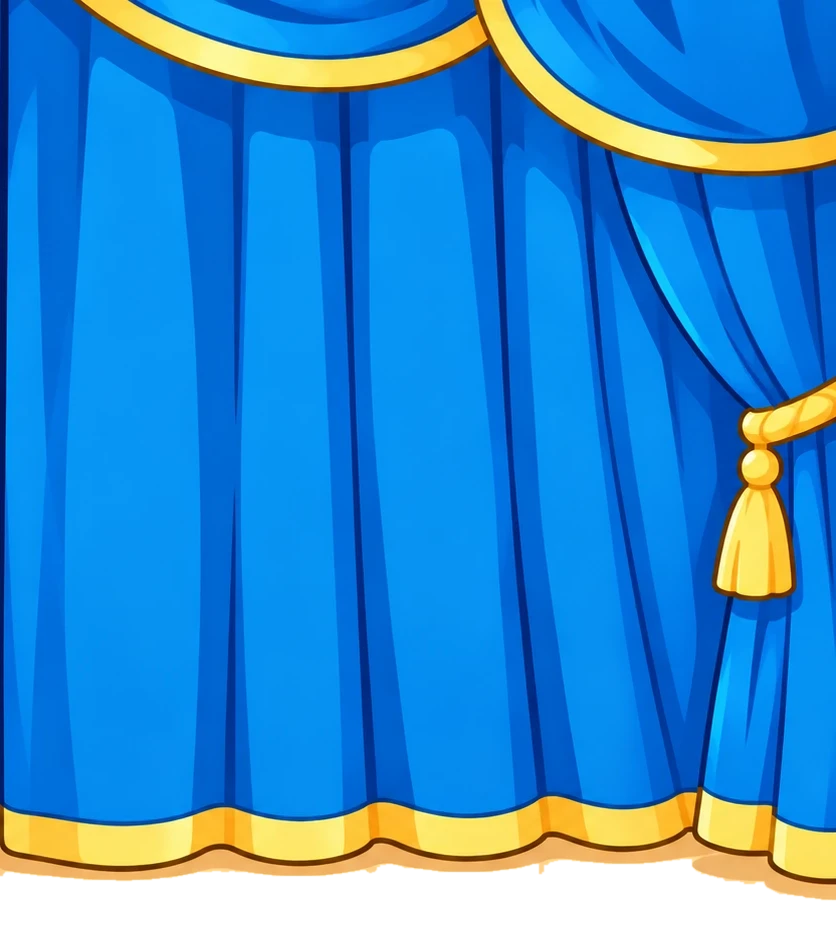
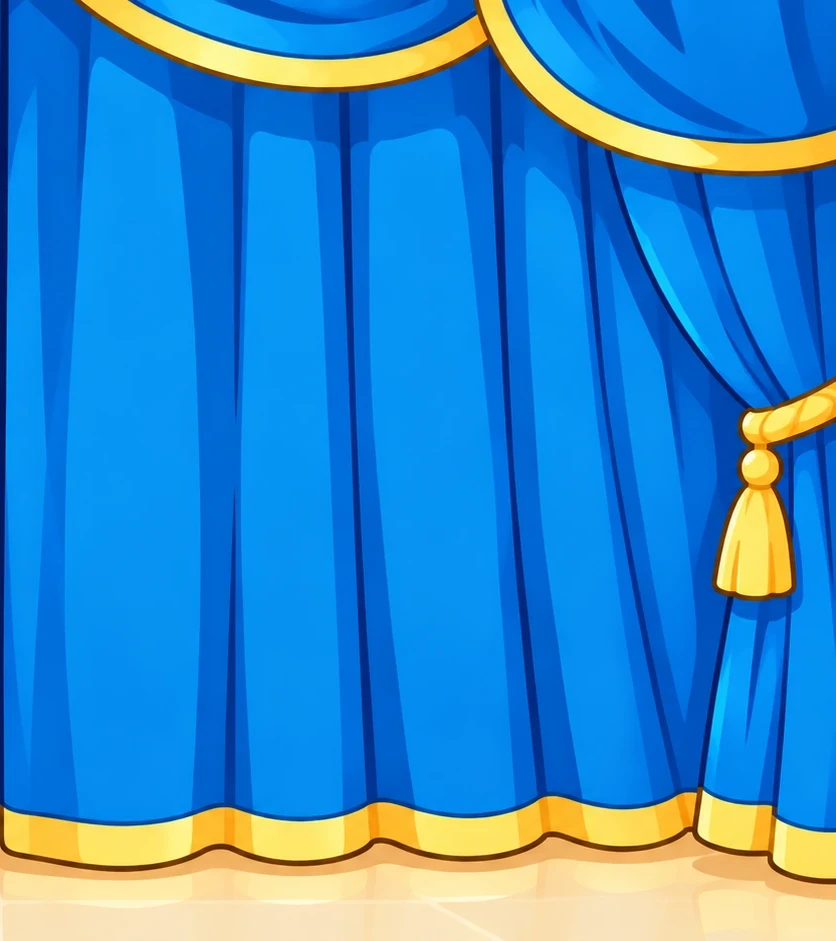
Mở rèm: rèm phủ kín toàn màn hình như ảnh gốc (có diềm vàng trên, gấu vàng và sàn kem dưới)
Claude-Session: https://claude.ai/code/session_01Xqfit1TE88fdJNq9wU4RBg

Changed region(s): [[0.0, 0.8937, 1.0, 1.0]]

diff --git a/frontend/src/index.css b/frontend/src/index.css
@@ -1613,12 +1613,15 @@ h3,
 /* ===== Mở rèm vào Hội trường triển lãm (ExhibitTransition): hai cánh rèm xanh viền vàng trượt sang hai bên ===== */
 .sb-curtain-root { position: fixed; inset: 0; z-index: 9999; overflow: hidden; pointer-events: auto; opacity: 1; transition: opacity 300ms ease-in-out; }
 .sb-curtain-root.sb-curtain-leave { opacity: 0; pointer-events: none; }
-/* Khung rèm phủ kín màn hình (như background-size: cover); hai cánh mỗi cánh rộng một nửa khung. */
-.sb-curtain { position: absolute; top: calc((100vh - max(100vh, 56.3vw)) / 2); height: max(100vh, 56.3vw); width: max(50vw, 88.9vh); }
-.sb-curtain img { display: block; width: 100%; height: 100%; user-select: none; pointer-events: none; }
+/* Rèm phủ KÍN màn hình (có cả diềm vàng trên, gấu vàng dưới và sàn kem như ảnh gốc): màn rộng hơn 16:9 thì kéo vừa khít chiều cao, màn đứng thì phủ kiểu "cover". */
+.sb-curtain { position: absolute; top: 0; height: 100vh; width: 50vw; }
+.sb-curtain img { display: block; width: 100%; height: 100%; object-fit: fill; user-select: none; pointer-events: none; }
+@media (max-aspect-ratio: 16 / 9) {
+  .sb-curtain { top: 0; height: 100vh; width: max(50vw, 88.9vh); }
+  .sb-curtain img { object-fit: cover; }
+}
 .sb-curtain-l { right: 50%; }
 .sb-curtain-r { left: 50%; }
-.sb-curtain-l img { object-position: right top; }
 .sb-curtain-open .sb-curtain-l { animation: sb-curtain-l 2000ms both; }
 .sb-curtain-open .sb-curtain-r { animation: sb-curtain-r 2000ms both; }
 /* 0–0,6s hé khe chậm (ease-in) · 0,6–1,5s kéo rộng, giảm tốc · 1,5–2,0s nảy nhẹ rồi nằm yên. Mỗi cánh trượt 84% bề rộng của nó → còn một dải ~16% ở mép (có dây buộc + tua). */
